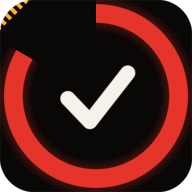
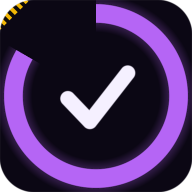
Switch theme to Multiverse Purple/Gold
Replaces the red/amber "hazard" palette with a violet accent and gold
warning color, picked from three live mockups after the red/black theme
was called out as not eye-catching. Semantic colors (green for
core/watched/good, red-pink for danger) stay distinct from the accent so
CORE badges and section borders keep reading clearly against the new
purple.

Introduces --accent-wash (a low-opacity background glow, separate from
the stronger --accent-glow used for tight text/box shadows — they'd
been sharing one value before, which would have made the countdown's
background wash far too strong at the new accent's higher lightness)
and --on-accent (dark text color for accent/danger-colored buttons) as
proper tokens, replacing five scattered #1a0503 literals tied to the
old red.

Regenerated the app icons (same countdown-ring-and-checkmark mark) with
the new palette, and updated the theme-color meta tag and manifest.json
to match so the browser chrome/splash screen aren't still the old
near-black-red.

Bumped the service worker cache version so clients pick up the new
theme and icons.

Claude-Session: https://claude.ai/code/session_013awVh7zS8o4zYkvF7Bh3ax

diff --git a/styles.css b/styles.css
@@ -1,16 +1,19 @@
 /* styles.css — mobile-first layout, shared across all pages */
 
 :root {
-  --bg: #0a0807;
-  --bg-elevated: #16100f;
-  --border: #3a201c;
-  --text: #f3ece7;
-  --text-dim: #a99a92;
-  --accent: #e5342a;
-  --accent-glow: rgba(229, 52, 42, 0.45);
-  --hazard: #ffb020;
+  --bg: #0b0714;
+  --bg-elevated: #180f28;
+  --border: #3d2a5c;
+  --text: #f5f0ff;
+  --text-dim: #b3a3cc;
+  --accent: #b565f5;
+  --accent-glow: rgba(181, 101, 245, 0.4);
+  --accent-wash: rgba(181, 101, 245, 0.16);
+  --on-accent: #180a26;
+  --hazard: #f2b705;
+  --hazard-glow: rgba(242, 183, 5, 0.08);
   --good: #2bd4a0;
-  --danger: #e5342a;
+  --danger: #ff5c7a;
   --radius: 12px;
   --max-width: 640px;
 }
@@ -39,8 +42,8 @@
     -45deg,
     var(--hazard),
     var(--hazard) 10px,
-    #0a0807 10px,
-    #0a0807 20px
+    var(--bg) 10px,
+    var(--bg) 20px
   );
 }
 
@@ -132,7 +135,7 @@ nav.site-nav a[aria-current="page"] {
 /* ---------- countdown ---------- */
 
 .countdown {
-  background: radial-gradient(ellipse 120% 100% at 50% 0%, rgba(229, 52, 42, 0.16), transparent 65%), var(--bg-elevated);
+  background: radial-gradient(ellipse 120% 100% at 50% 0%, var(--accent-wash), transparent 65%), var(--bg-elevated);
   border: 1px solid var(--border);
   border-top: 2px solid var(--accent);
   border-radius: var(--radius);
@@ -382,7 +385,7 @@ nav.site-nav a[aria-current="page"] {
   width: 100%;
   background: var(--accent);
   border: none;
-  color: #1a0503;
+  color: var(--on-accent);
   font-weight: 700;
   border-radius: 999px;
   padding: 0.75rem;
@@ -411,7 +414,7 @@ nav.site-nav a[aria-current="page"] {
   gap: 0.75rem;
   padding: 0.6rem 1rem;
   background: var(--accent);
-  color: #1a0503;
+  color: var(--on-accent);
   font-size: 0.85rem;
   font-weight: 600;
 }
@@ -421,7 +424,7 @@ nav.site-nav a[aria-current="page"] {
 }
 
 .update-banner-btn {
-  background: #1a0503;
+  background: var(--on-accent);
   color: var(--text);
   border: none;
   border-radius: 999px;
@@ -540,7 +543,7 @@ nav.site-nav a[aria-current="page"] {
 
 .segmented button.active {
   background: var(--accent);
-  color: #1a0503;
+  color: var(--on-accent);
   font-weight: 600;
 }
 
@@ -577,7 +580,7 @@ button.reset-btn {
 
 button.reset-btn.confirming {
   background: var(--danger);
-  color: #1a0503;
+  color: var(--on-accent);
   font-weight: 600;
 }
 
@@ -698,7 +701,7 @@ button.spoiler-toggle.revealed {
   padding: 0.5rem 0.6rem;
   border: 1px solid var(--hazard);
   border-radius: 8px;
-  background: rgba(255, 176, 32, 0.08);
+  background: var(--hazard-glow);
   color: var(--text);
   font-size: 0.78rem;
   line-height: 1.4;
@@ -776,7 +779,7 @@ li.item.watched .item-title {
   padding: 0.65rem 0.75rem;
   border-radius: 8px;
   border: 1px solid var(--hazard);
-  background: rgba(255, 176, 32, 0.08);
+  background: var(--hazard-glow);
   background-image: repeating-linear-gradient(
     -45deg,
     var(--hazard),

diff --git a/index.html b/index.html
@@ -8,7 +8,7 @@
   <link rel="manifest" href="manifest.json" />
   <link rel="icon" href="icons/favicon-32.png" sizes="32x32" />
   <link rel="apple-touch-icon" href="icons/apple-touch-icon.png" />
-  <meta name="theme-color" content="#0a0807" />
+  <meta name="theme-color" content="#0b0714" />
   <link rel="stylesheet" href="styles.css" />
 </head>
 <body>

diff --git a/sw.js b/sw.js
@@ -4,7 +4,7 @@
 // network fallback that also updates the cache. Bump CACHE_NAME whenever
 // shell files change so old clients pick up the new version.
 
-const CACHE_NAME = "doomsday-tracker-v11";
+const CACHE_NAME = "doomsday-tracker-v12";
 
 const APP_SHELL = [
   "./",
